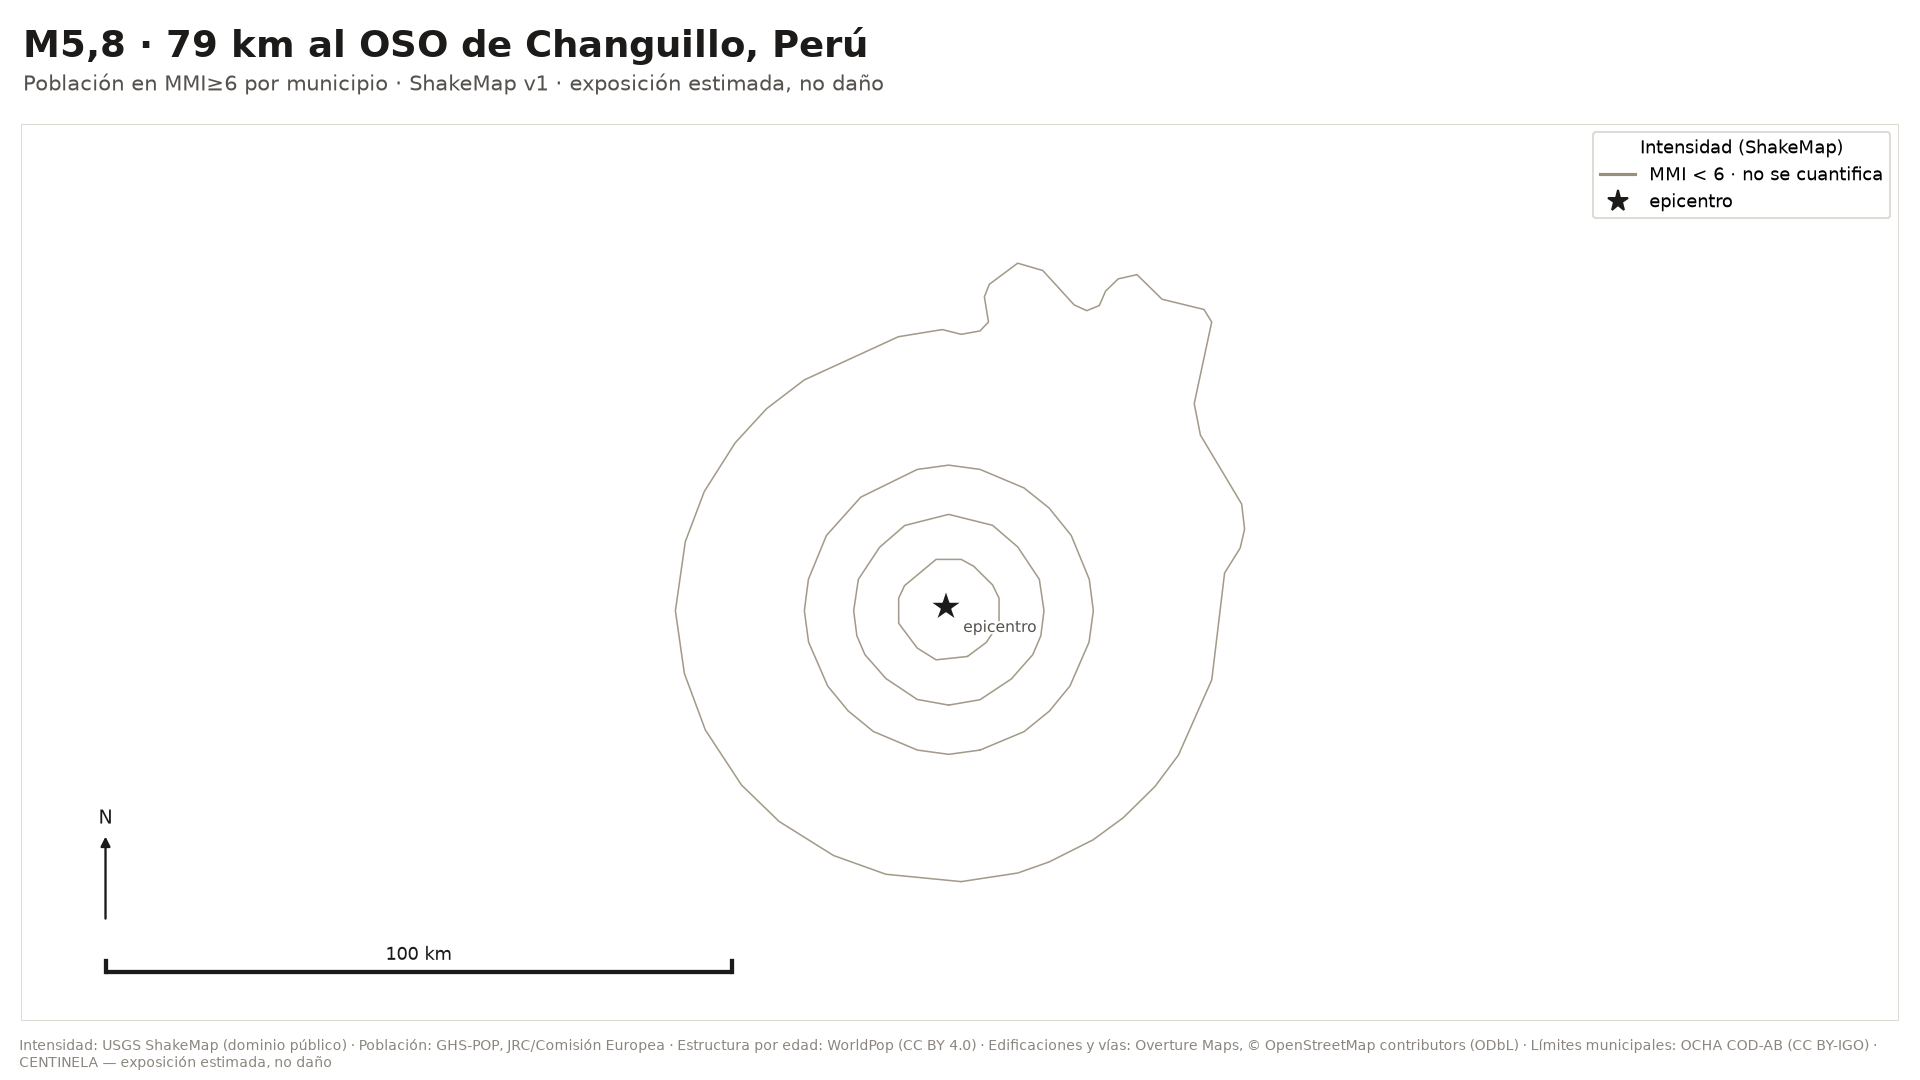
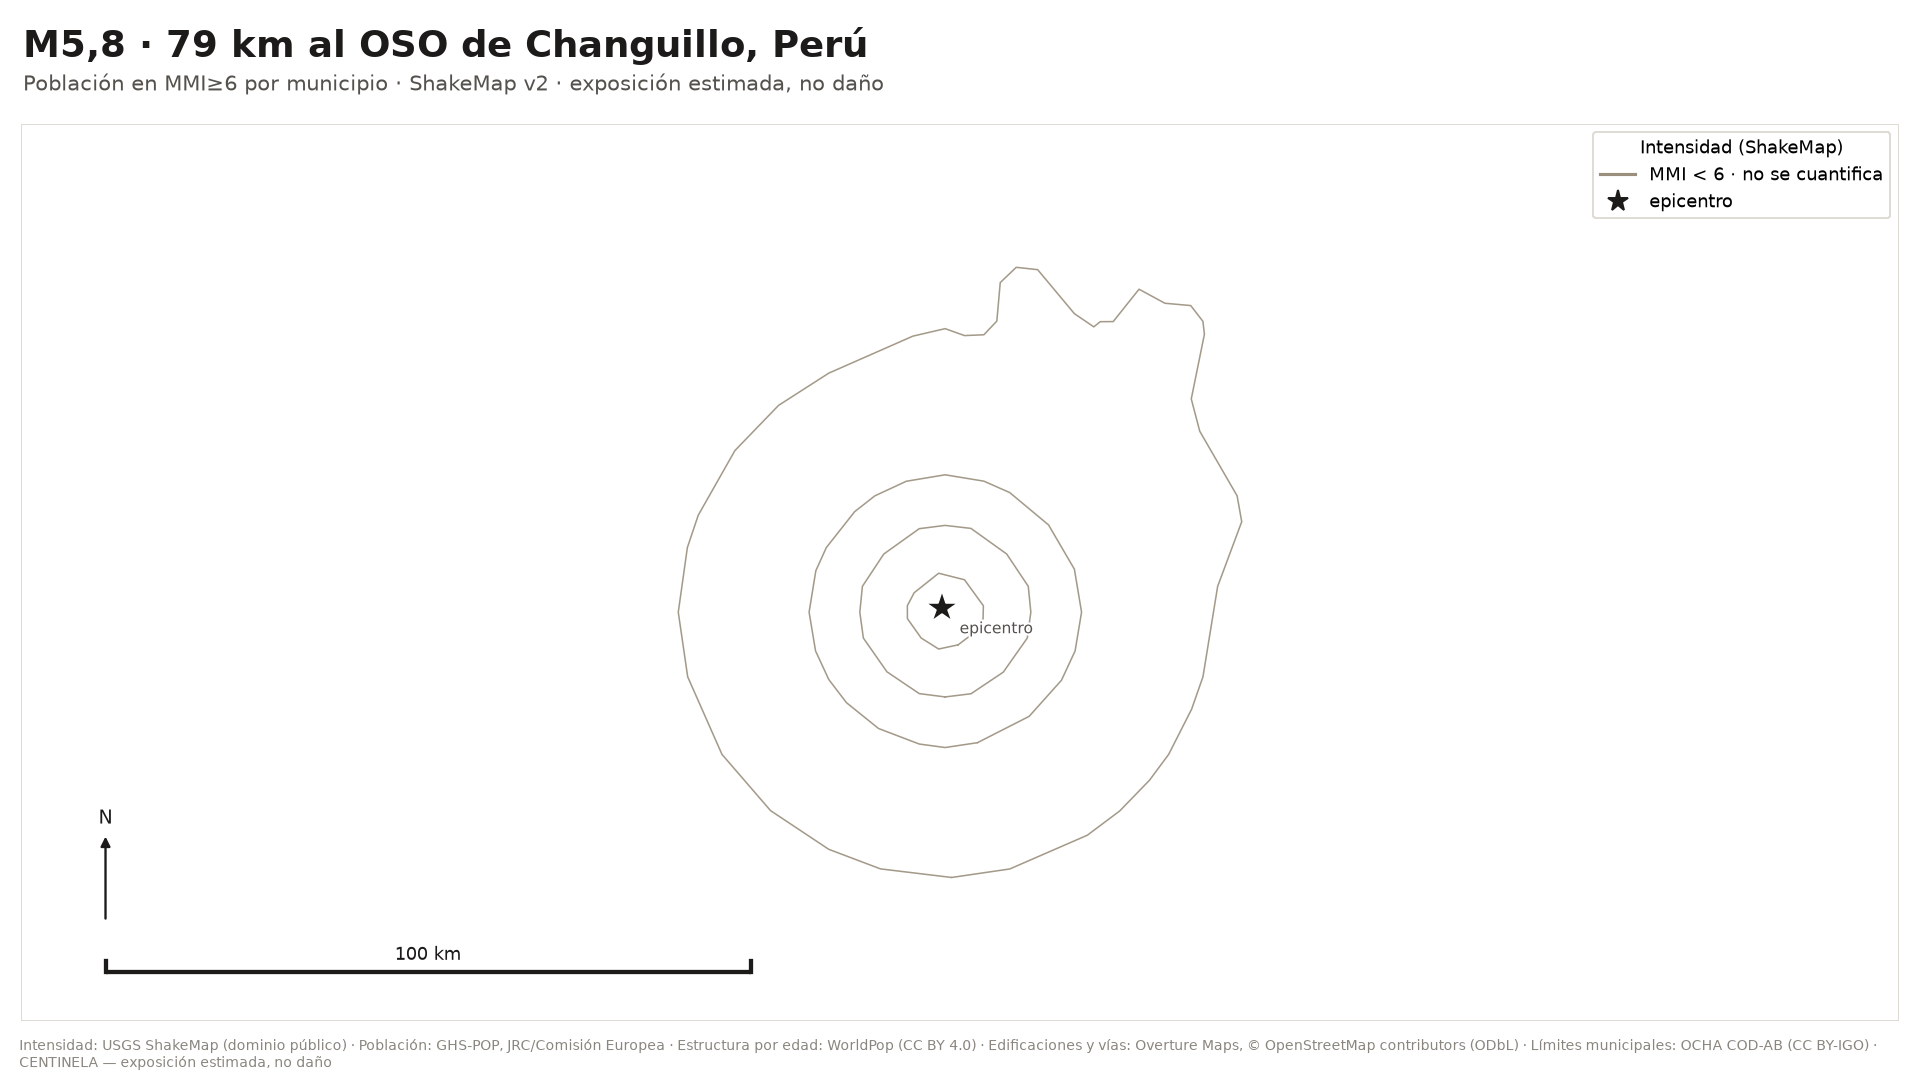
P3: reporte de us7000ty1a

diff --git a/reports/us7000ty1a/report.md b/reports/us7000ty1a/report.md
@@ -39,7 +39,7 @@ Las dos cifras se cuentan sobre las celdas del corte publicado (MMI≥6). **No s
 
 **Y el umbral se evalúa en un solo punto por celda: su centroide.** El píxel del ráster es más pequeño que la celda, así que ese punto decide si entra la población entera de la celda o no entra ninguna. No es una estadística areal, y el sesgo que introduce no está medido: puede quedarse corto o pasarse.
 
-Fuente: producto *Ground Failure* de USGS (v1), dominio público.
+Fuente: producto *Ground Failure* de USGS (v2), dominio público.
 
 ## Incertidumbre y calidad
 
@@ -49,6 +49,9 @@ Discrepancia entre GHS-POP y WorldPop: **no se pudo medir**. Ninguna celda dentr
 
 ## Cambios frente a la versión anterior
 
+- ShakeMap: v1 (us) → v2 (us)
+- Ground Failure: v1 (us) → v2 (us)
+- Ninguna cifra publicada cambia frente a la versión anterior.
 - Ground Failure: v0 → v1 (us)
 - Ninguna cifra publicada cambia frente a la versión anterior.
 
@@ -59,10 +62,10 @@ Discrepancia entre GHS-POP y WorldPop: **no se pudo medir**. Ninguna celda dentr
 
 ## Procedencia
 
-- ShakeMap consumido: **v1** de `us`
-- Ground Failure consumido: **v1** de `us`
+- ShakeMap consumido: **v2** de `us`
+- Ground Failure consumido: **v2** de `us`
 - Manifiesto de exposición: [`per-v0.5`](https://github.com/sforero77/CENTINELA/blob/main/data/manifests/PER.yaml)
-- Pipeline: `0.1.0` · Generado: 2026-11-13T17:11:04Z
+- Pipeline: `0.1.0` · Generado: 2026-11-13T19:01:14Z
 
 ## Advertencias
 
